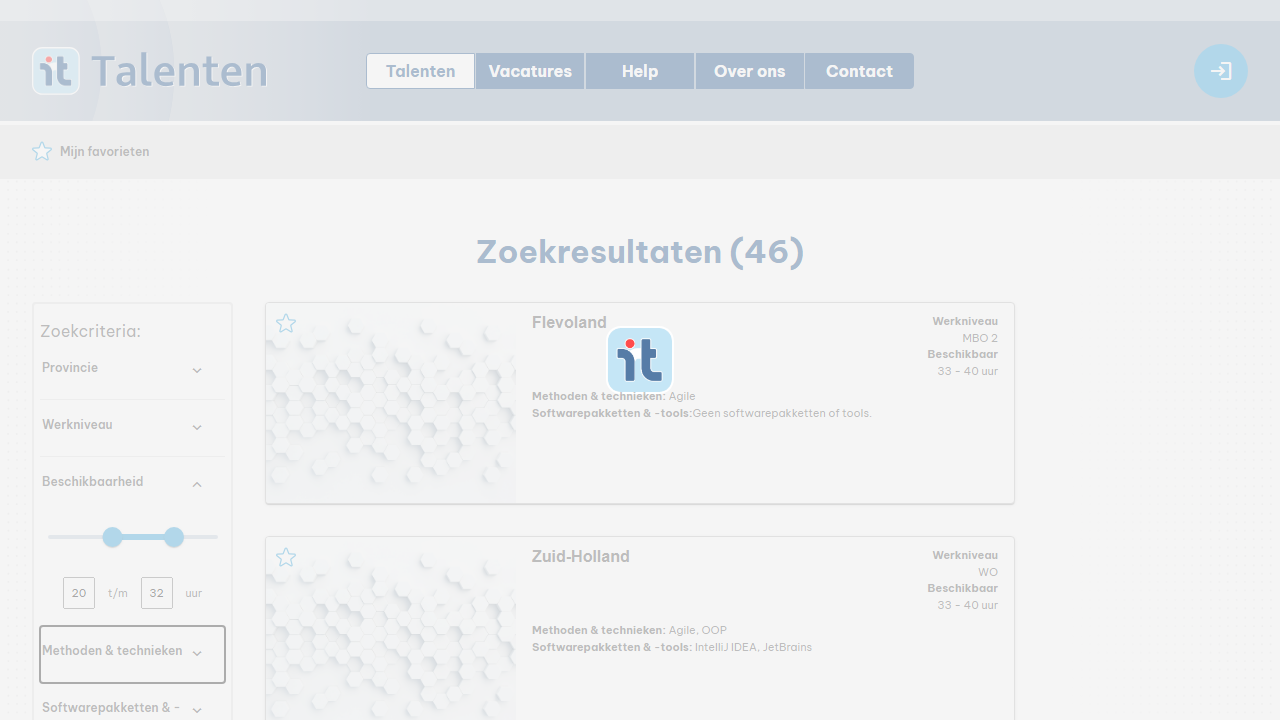
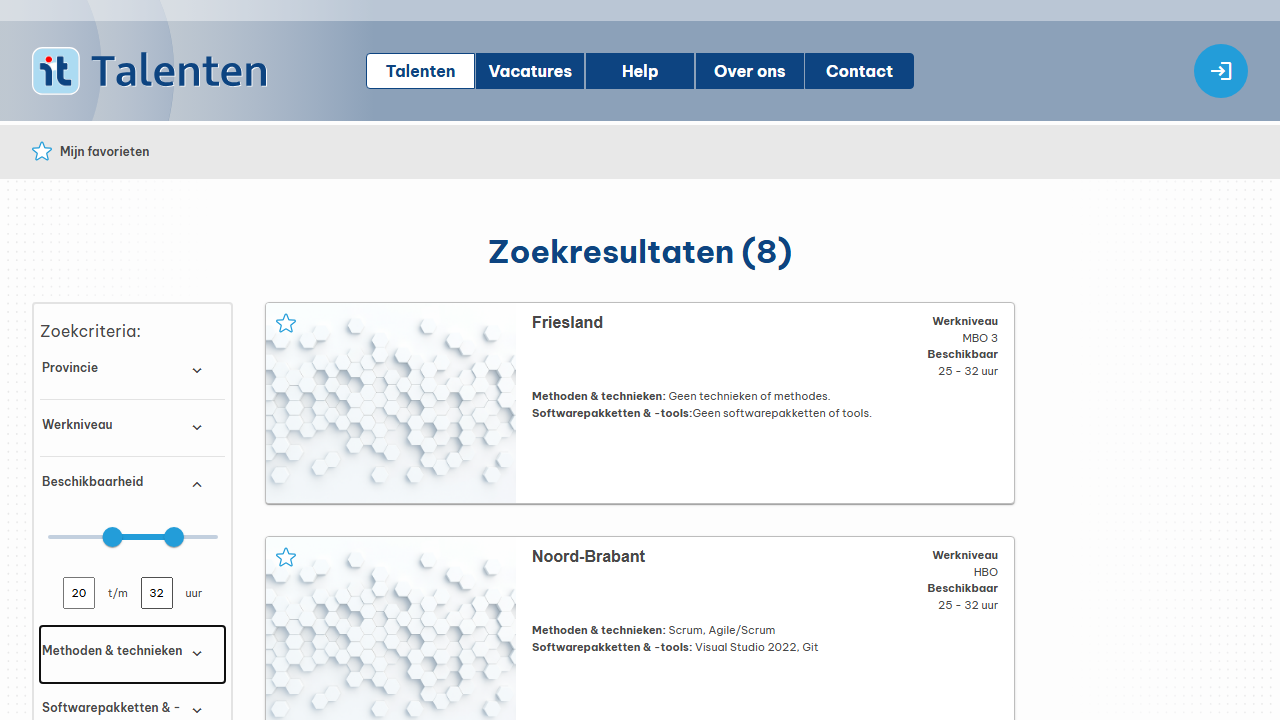
Fix TC-008 en TC-009: correcte tellogica via Zoekresultaten-kop, rapport bijgewerkt

diff --git a/tests/cases/tc008.py b/tests/cases/tc008.py
@@ -6,11 +6,15 @@ FILTER_PROVINCE = "Gelderland"
 
 
 def count_talents(page: Page) -> int:
-    """Tel het aantal zichtbare talent-kaarten op de pagina."""
-    for sel in ["[class*='talent-card']", "[class*='talentcard']", "[class*='card']", "app-talent-card", ".talent"]:
-        count = page.locator(sel).count()
-        if count > 0:
-            return count
+    """Lees het aantal talenten uit de 'Zoekresultaten (X)' kop."""
+    import re
+    try:
+        tekst = page.locator("h1:has-text('Zoekresultaten')").first.inner_text(timeout=5000)
+        match = re.search(r'\((\d+)\)', tekst)
+        if match:
+            return int(match.group(1))
+    except Exception:
+        pass
     return -1  # onbekend
 
 
@@ -44,6 +48,13 @@ def run(page: Page):
             raise Exception(f"Radio button '{FILTER_PROVINCE}' niet gevonden")
         radio.click(timeout=3000)
         page.wait_for_load_state("networkidle", timeout=10000)
+
+        # Wacht tot Zoekresultaten-teller verandert (Angular update)
+        page.wait_for_function(
+            "before => { const h1 = document.querySelector('h1'); const m = h1 && h1.innerText.match(/\\((\\d+)\\)/); return m && parseInt(m[1]) !== before; }",
+            arg=total_before,
+            timeout=5000
+        )
 
     except Exception as e:
         screenshot_path = f"{SCREENSHOTS_DIR}/tc008-geblokkeerd.png"

diff --git a/tests/cases/tc009.py b/tests/cases/tc009.py
@@ -7,10 +7,15 @@ MAX_HOURS = 32
 
 
 def count_talents(page: Page) -> int:
-    for sel in ["[class*='talent-card']", "[class*='talentcard']", "[class*='card']", "app-talent-card", ".talent"]:
-        count = page.locator(sel).count()
-        if count > 0:
-            return count
+    """Lees het aantal talenten uit de 'Zoekresultaten (X)' kop."""
+    import re
+    try:
+        tekst = page.locator("h1:has-text('Zoekresultaten')").first.inner_text(timeout=5000)
+        match = re.search(r'\((\d+)\)', tekst)
+        if match:
+            return int(match.group(1))
+    except Exception:
+        pass
     return -1
 
 
@@ -55,6 +60,13 @@ def run(page: Page):
         end_input.dispatch_event("change")
         page.keyboard.press("Tab")
         page.wait_for_load_state("networkidle", timeout=10000)
+
+        # Wacht tot Zoekresultaten-teller verandert (Angular update)
+        page.wait_for_function(
+            "before => { const h1 = document.querySelector('h1'); const m = h1 && h1.innerText.match(/\\((\\d+)\\)/); return m && parseInt(m[1]) !== before; }",
+            arg=total_before,
+            timeout=5000
+        )
 
     except Exception as e:
         screenshot_path = f"{SCREENSHOTS_DIR}/tc009-geblokkeerd.png"

diff --git a/uitwerking/deelopdracht-7-testrapportage/testrapport.md b/uitwerking/deelopdracht-7-testrapportage/testrapport.md
@@ -46,8 +46,8 @@ Dit testrapport beschrijft de resultaten van de 19 uitgevoerde testen op het IT 
 | [TC-005](#tc-005--sessie-beëindigd-na-uitloggen) | Sessie beëindigd na uitloggen | FE2 | Hoog | **GESLAAGD** | 2026-04-03 12:32:43 |
 | [TC-006](#tc-006--talentprofiel-afgeschermd-voor-bezoekers) | Talentprofiel afgeschermd voor bezoekers | FE3 | Hoog | **GESLAAGD** | 2026-04-09 10:41:33 |
 | [TC-007](#tc-007--admin-panel-toegankelijkheid-per-rol) | Admin panel toegankelijkheid per rol | FE3 | Hoog | **GESLAAGD** | 2026-04-09 10:54:03 |
-| [TC-008](#tc-008--filteren-op-provincie) | Filteren op provincie | FE4 | Hoog | **GESLAAGD** | 2026-04-09 11:13:54 |
-| [TC-009](#tc-009--filteren-op-beschikbaarheid-grenswaarden) | Filteren op beschikbaarheid (grenswaarden) | FE4 | Hoog | **GESLAAGD** | 2026-04-09 11:16:13 |
+| [TC-008](#tc-008--filteren-op-provincie) | Filteren op provincie | FE4 | Hoog | **GESLAAGD** | 2026-04-14 10:49:00 |
+| [TC-009](#tc-009--filteren-op-beschikbaarheid-grenswaarden) | Filteren op beschikbaarheid (grenswaarden) | FE4 | Hoog | **GESLAAGD** | 2026-04-14 10:50:00 |
 | [TC-010](#tc-010--talentprofiel-volledig-zichtbaar-voor-ingelogde-gebruiker) | Talentprofiel volledig zichtbaar voor ingelogde gebruiker | FE5 | Hoog | **GESLAAGD** | 2026-04-10 00:00:00 |
 | [TC-011](#tc-011--talentprofiel-gedeeltelijk-zichtbaar-voor-bezoeker) | Talentprofiel gedeeltelijk zichtbaar voor bezoeker | FE5 | Hoog | **GESLAAGD** | 2026-04-10 00:00:00 |
 | [TC-012](#tc-012--idor--talentprofiel-via-url-manipulatie) | IDOR — talentprofiel via URL-manipulatie | NFE1/NFE3 | Hoog | **GESLAAGD** | 2026-04-10 09:01:57 |
@@ -220,8 +220,8 @@ De getoonde informatie is niet te herleiden tot een persoon.
 **Verwacht resultaat:** Alleen talenten uit Gelderland getoond; aantal ≤ totaal
 
 **Werkelijk resultaat:**
-- Voor filter: 40
-- Na filter (Gelderland): 40
+- Voor filter: 46
+- Na filter (Gelderland): 2
 
 **Conclusie:** Alleen talenten uit de geselecteerde provincie worden getoond. Het filter werkt correct.
 
@@ -241,8 +241,8 @@ De getoonde informatie is niet te herleiden tot een persoon.
 **Verwacht resultaat:** Alleen talenten beschikbaar 20–32 uur getoond; aantal ≤ totaal
 
 **Werkelijk resultaat:**
-- Voor filter: 40
-- Na filter (20–32 uur): 40
+- Voor filter: 46
+- Na filter (20–32 uur): 8
 
 **Conclusie:** Alleen talenten binnen het opgegeven beschikbaarheidsbereik worden getoond. Grenswaarden worden correct verwerkt.
 
